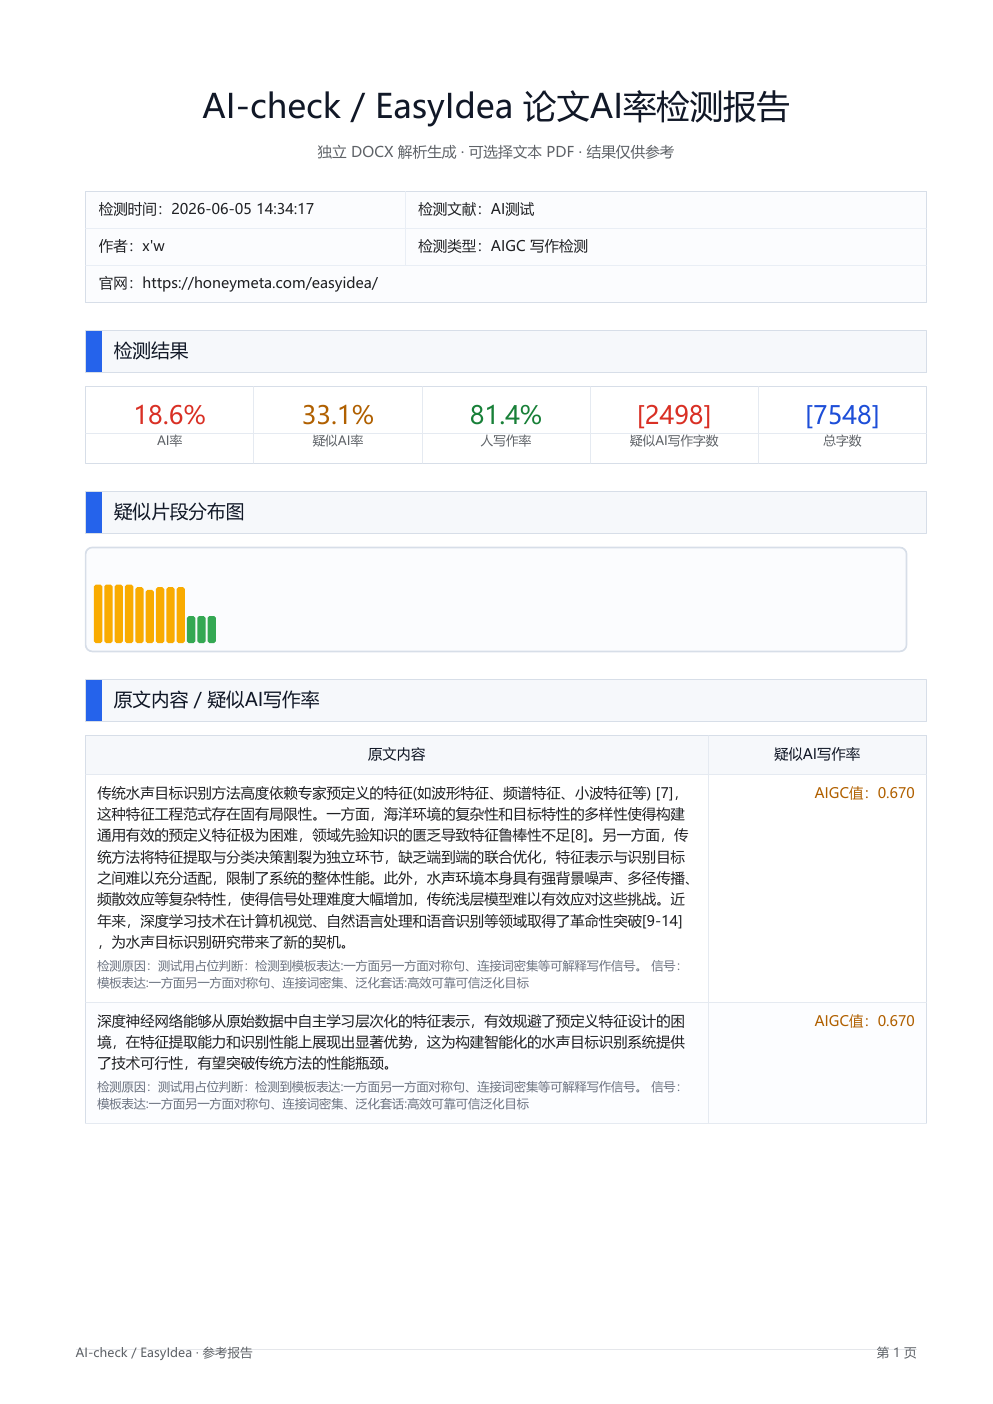
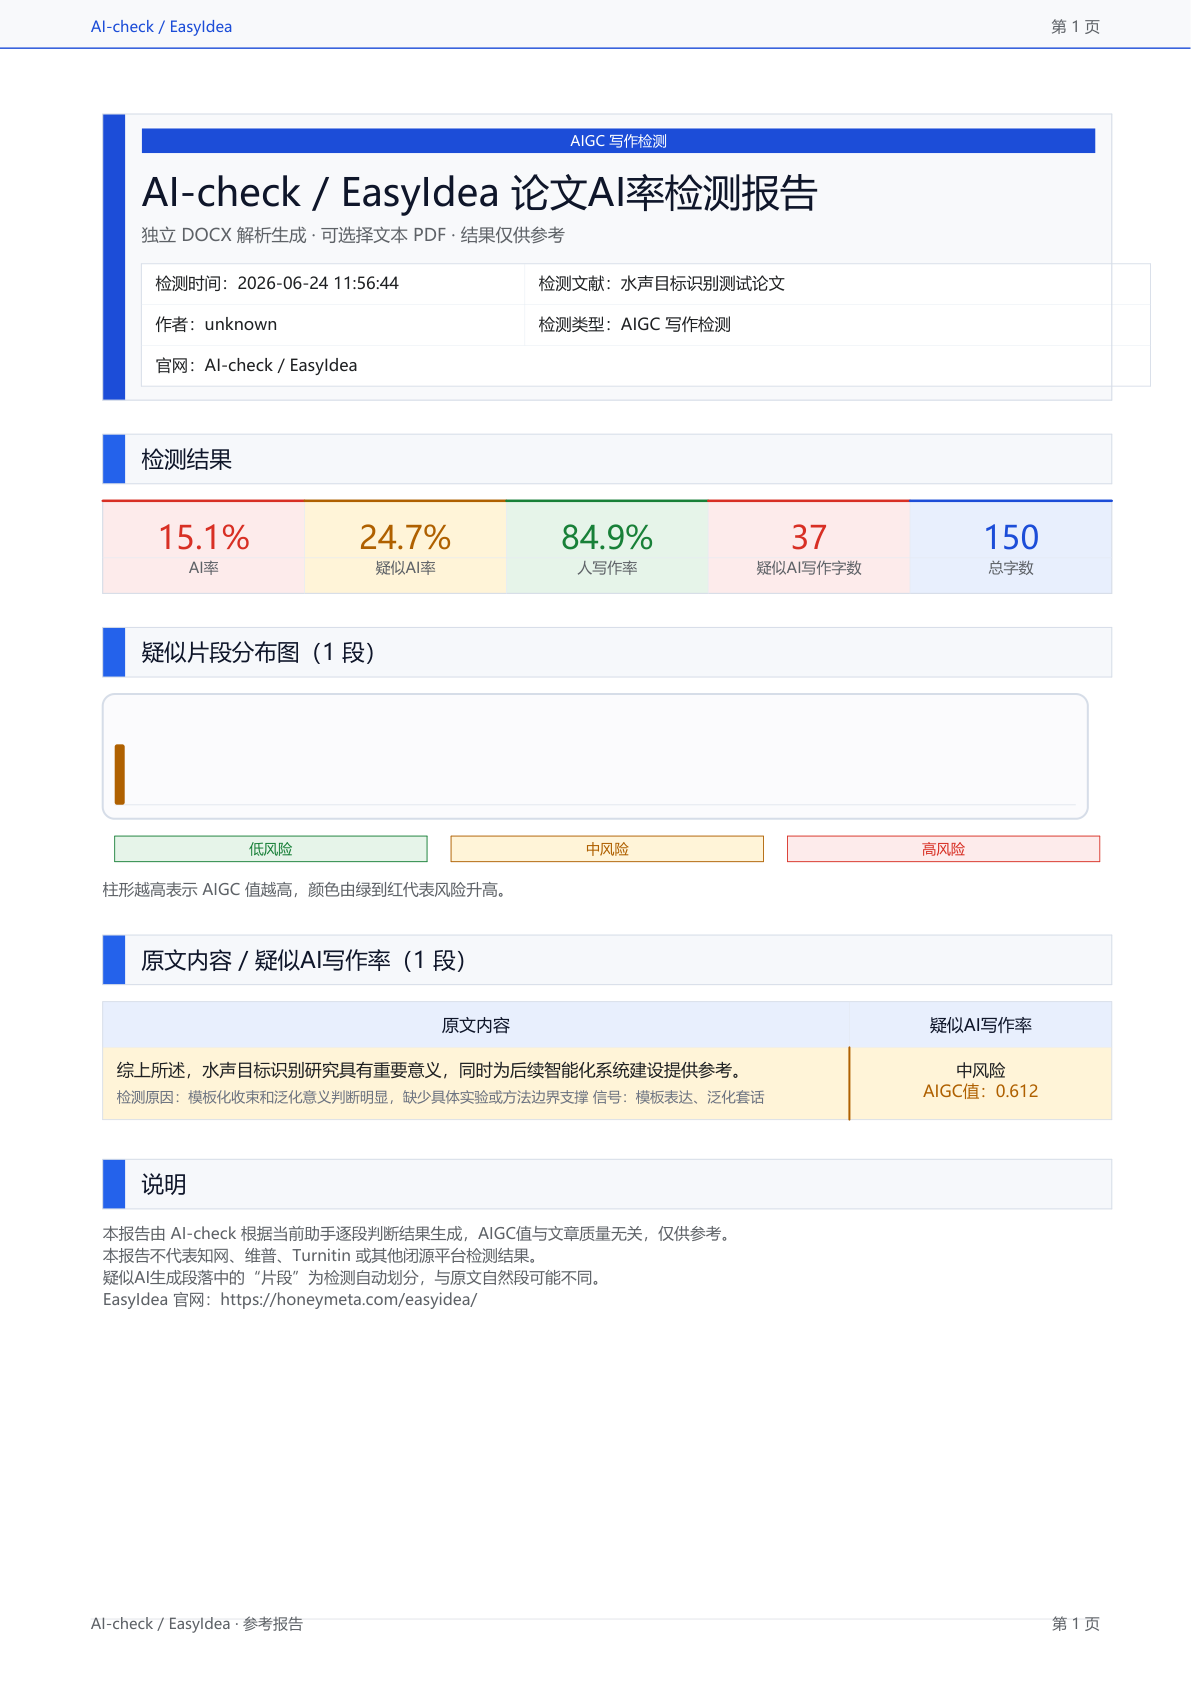
Polish AI-check PDF report styling

diff --git a/ai-check/scripts/ai_check.py b/ai-check/scripts/ai_check.py
@@ -869,6 +869,13 @@ def render_pdf(path: Path, scan: dict[str, Any], rows: list[dict[str, Any]], sum
         pdfmetrics.registerFont(UnicodeCIDFont(fallback))
         return fallback
 
+    def risk_palette(value: float) -> tuple[str, Any, Any]:
+        if value >= 0.75:
+            return "高风险", colors.HexColor("#D93025"), colors.HexColor("#FDECEC")
+        if value >= 0.45:
+            return "中风险", colors.HexColor("#B06000"), colors.HexColor("#FFF4D8")
+        return "低风险", colors.HexColor("#188038"), colors.HexColor("#E6F4EA")
+
     class DistributionBars(Flowable):
         def __init__(self, values: list[float], height: float = 22 * mm) -> None:
             super().__init__()
@@ -881,12 +888,15 @@ def render_pdf(path: Path, scan: dict[str, Any], rows: list[dict[str, Any]], sum
             return avail_width, self.height
 
         def draw(self) -> None:
-            pad = 5
-            base_y = pad
-            chart_h = self.height - pad * 2
-            self.canv.setFillColor(colors.HexColor("#FBFCFE"))
-            self.canv.setStrokeColor(colors.HexColor("#D7DEE8"))
-            self.canv.roundRect(0, 0, self.width, self.height, 4, stroke=1, fill=1)
+            pad = 6
+            base_y = pad + 1
+            chart_h = self.height - pad * 2 - 1
+            self.canv.setFillColor(softer)
+            self.canv.setStrokeColor(border)
+            self.canv.roundRect(0, 0, self.width, self.height, 6, stroke=1, fill=1)
+            self.canv.setStrokeColor(colors.HexColor("#E5EAF1"))
+            self.canv.setLineWidth(0.5)
+            self.canv.line(pad, base_y, self.width - pad, base_y)
             if not self.values:
                 return
             gap = 1.2
@@ -896,23 +906,23 @@ def render_pdf(path: Path, scan: dict[str, Any], rows: list[dict[str, Any]], sum
             bar_w = max(1.4, min(5.0, available / max(1, len(values))))
             x = pad
             for value in values:
-                color = "#D93025" if value >= 0.75 else "#F9AB00" if value >= 0.45 else "#34A853"
+                _, accent, _tint = risk_palette(value)
                 height = max(5, value * chart_h)
-                self.canv.setFillColor(colors.HexColor(color))
-                self.canv.roundRect(x, base_y, bar_w, height, 1.1, stroke=0, fill=1)
+                self.canv.setFillColor(accent)
+                self.canv.roundRect(x, base_y, bar_w, height, 1.2, stroke=0, fill=1)
                 x += bar_w + gap
 
     font_name = register_pdf_font()
     path.parent.mkdir(parents=True, exist_ok=True)
 
-    page_w, _page_h = A4
+    page_w, page_h = A4
     doc = SimpleDocTemplate(
         str(path),
         pagesize=A4,
         rightMargin=16 * mm,
         leftMargin=16 * mm,
-        topMargin=16 * mm,
-        bottomMargin=15 * mm,
+        topMargin=18 * mm,
+        bottomMargin=16 * mm,
         title="AI-check / EasyIdea 论文AI率检测报告",
         author="AI-check",
     )
@@ -927,25 +937,55 @@ def render_pdf(path: Path, scan: dict[str, Any], rows: list[dict[str, Any]], sum
     red = colors.HexColor("#D93025")
     green = colors.HexColor("#188038")
     amber = colors.HexColor("#B06000")
+    soft_red = colors.HexColor("#FDECEC")
+    soft_amber = colors.HexColor("#FFF4D8")
+    soft_green = colors.HexColor("#E6F4EA")
+    soft_blue = colors.HexColor("#E8F0FE")
+    soft_slate = colors.HexColor("#F8FAFC")
 
-    base = ParagraphStyle("AICheckBase", fontName=font_name, fontSize=9.2, leading=13.2, textColor=ink, alignment=TA_LEFT, wordWrap="CJK")
-    title_style = ParagraphStyle("AICheckTitle", parent=base, fontSize=20, leading=26, alignment=TA_CENTER, textColor=colors.HexColor("#111827"), spaceAfter=3 * mm)
-    subtitle_style = ParagraphStyle("AICheckSubtitle", parent=base, fontSize=8.8, leading=12, alignment=TA_CENTER, textColor=muted, spaceAfter=6 * mm)
-    meta_style = ParagraphStyle("AICheckMeta", parent=base, fontSize=8.7, leading=12.2)
-    section_style = ParagraphStyle("AICheckSection", parent=base, fontSize=11.2, leading=15, textColor=colors.HexColor("#111827"))
-    metric_value_style = ParagraphStyle("AICheckMetricValue", parent=base, fontSize=15, leading=18, alignment=TA_CENTER, textColor=red)
-    metric_label_style = ParagraphStyle("AICheckMetricLabel", parent=base, fontSize=7.6, leading=10, alignment=TA_CENTER, textColor=muted)
-    table_header_style = ParagraphStyle("AICheckTableHeader", parent=base, fontSize=8.6, leading=11, alignment=TA_CENTER, textColor=colors.HexColor("#111827"))
-    body_style = ParagraphStyle("AICheckBody", parent=base, fontSize=8.6, leading=12.8)
-    reason_style = ParagraphStyle("AICheckReason", parent=base, fontSize=7.3, leading=10.2, textColor=colors.HexColor("#6B7280"))
-    score_style = ParagraphStyle("AICheckScore", parent=base, fontSize=8.6, leading=12, alignment=TA_RIGHT)
-    note_style = ParagraphStyle("AICheckNote", parent=base, fontSize=8.0, leading=11.5, textColor=muted)
+    base = ParagraphStyle("AICheckBase", fontName=font_name, fontSize=9.1, leading=13.0, textColor=ink, alignment=TA_LEFT, wordWrap="CJK")
+    title_style = ParagraphStyle("AICheckTitle", parent=base, fontSize=19.2, leading=24, alignment=TA_LEFT, textColor=colors.HexColor("#0F172A"), spaceAfter=1.3 * mm)
+    subtitle_style = ParagraphStyle("AICheckSubtitle", parent=base, fontSize=8.7, leading=11.8, alignment=TA_LEFT, textColor=muted)
+    meta_style = ParagraphStyle("AICheckMeta", parent=base, fontSize=8.2, leading=11.4, textColor=ink)
+    section_style = ParagraphStyle("AICheckSection", parent=base, fontSize=11.3, leading=14.8, textColor=colors.HexColor("#0F172A"))
+    metric_value_style = ParagraphStyle("AICheckMetricValue", parent=base, fontSize=16, leading=18.5, alignment=TA_CENTER, textColor=red)
+    metric_label_style = ParagraphStyle("AICheckMetricLabel", parent=base, fontSize=7.5, leading=9.8, alignment=TA_CENTER, textColor=muted)
+    table_header_style = ParagraphStyle("AICheckTableHeader", parent=base, fontSize=8.5, leading=10.8, alignment=TA_CENTER, textColor=colors.HexColor("#0F172A"))
+    body_style = ParagraphStyle("AICheckBody", parent=base, fontSize=8.55, leading=12.4)
+    reason_style = ParagraphStyle("AICheckReason", parent=base, fontSize=7.15, leading=9.8, textColor=colors.HexColor("#6B7280"))
+    score_style = ParagraphStyle("AICheckScore", parent=base, fontSize=8.25, leading=10.8, alignment=TA_CENTER)
+    note_style = ParagraphStyle("AICheckNote", parent=base, fontSize=7.9, leading=11.0, textColor=muted)
 
     def safe(value: Any) -> str:
         return html.escape(str(value or "")).replace("\n", "<br/>")
 
     def paragraph(value: Any, style: ParagraphStyle = base) -> Paragraph:
         return Paragraph(safe(value), style)
+
+    def pill(text: str, bg: Any, fg: Any) -> Table:
+        pill_style = ParagraphStyle(
+            "AICheckPill",
+            parent=base,
+            fontSize=7.2,
+            leading=9.2,
+            alignment=TA_CENTER,
+            textColor=fg,
+        )
+        table = Table([[Paragraph(safe(text), pill_style)]], hAlign="LEFT")
+        table.setStyle(
+            TableStyle(
+                [
+                    ("BACKGROUND", (0, 0), (-1, -1), bg),
+                    ("BOX", (0, 0), (-1, -1), 0.45, fg),
+                    ("LEFTPADDING", (0, 0), (-1, -1), 5),
+                    ("RIGHTPADDING", (0, 0), (-1, -1), 5),
+                    ("TOPPADDING", (0, 0), (-1, -1), 1.8),
+                    ("BOTTOMPADDING", (0, 0), (-1, -1), 1.8),
+                    ("VALIGN", (0, 0), (-1, -1), "MIDDLE"),
+                ]
+            )
+        )
+        return table
 
     def color_for_value(value: float) -> Any:
         if value >= 0.75:
@@ -954,18 +994,83 @@ def render_pdf(path: Path, scan: dict[str, Any], rows: list[dict[str, Any]], sum
             return amber
         return green
 
+    def tint_for_value(value: float) -> Any:
+        if value >= 0.75:
+            return soft_red
+        if value >= 0.45:
+            return soft_amber
+        return soft_green
+
+    def label_for_value(value: float) -> str:
+        if value >= 0.75:
+            return "高风险"
+        if value >= 0.45:
+            return "中风险"
+        return "低风险"
+
+    def header_card() -> Table:
+        meta_data = [
+            [paragraph(f"检测时间：{detection_time}", meta_style), paragraph(f"检测文献：{title}", meta_style)],
+            [paragraph(f"作者：{author}", meta_style), paragraph("检测类型：AIGC 写作检测", meta_style)],
+            [paragraph("官网：AI-check / EasyIdea", meta_style), paragraph(f"检测范围：{scope}", meta_style)],
+        ]
+        meta_table = Table(meta_data, colWidths=[doc.width * 0.38, doc.width * 0.62], hAlign="LEFT")
+        meta_table.setStyle(
+            TableStyle(
+                [
+                    ("SPAN", (0, 2), (1, 2)),
+                    ("BACKGROUND", (0, 0), (-1, -1), colors.white),
+                    ("BOX", (0, 0), (-1, -1), 0.45, border),
+                    ("INNERGRID", (0, 0), (-1, -1), 0.25, colors.HexColor("#E7EDF5")),
+                    ("LEFTPADDING", (0, 0), (-1, -1), 7),
+                    ("RIGHTPADDING", (0, 0), (-1, -1), 7),
+                    ("TOPPADDING", (0, 0), (-1, -1), 4.5),
+                    ("BOTTOMPADDING", (0, 0), (-1, -1), 4.5),
+                    ("VALIGN", (0, 0), (-1, -1), "MIDDLE"),
+                ]
+            )
+        )
+        content = [
+            pill("AIGC 写作检测", blue_dark, colors.white),
+            Spacer(1, 2.5 * mm),
+            Paragraph("AI-check / EasyIdea 论文AI率检测报告", title_style),
+            Paragraph("独立 DOCX 解析生成 · 可选择文本 PDF · 结果仅供参考", subtitle_style),
+            Spacer(1, 3 * mm),
+            meta_table,
+        ]
+        table = Table([["", content]], colWidths=[4 * mm, doc.width - 4 * mm], hAlign="LEFT")
+        table.setStyle(
+            TableStyle(
+                [
+                    ("BACKGROUND", (0, 0), (0, 0), blue_dark),
+                    ("BACKGROUND", (1, 0), (1, 0), soft_slate),
+                    ("BOX", (0, 0), (-1, -1), 0.55, border),
+                    ("LEFTPADDING", (0, 0), (0, 0), 0),
+                    ("RIGHTPADDING", (0, 0), (0, 0), 0),
+                    ("LEFTPADDING", (1, 0), (1, 0), 8),
+                    ("RIGHTPADDING", (1, 0), (1, 0), 8),
+                    ("TOPPADDING", (0, 0), (-1, -1), 0),
+                    ("BOTTOMPADDING", (0, 0), (-1, -1), 0),
+                    ("TOPPADDING", (1, 0), (1, 0), 7),
+                    ("BOTTOMPADDING", (1, 0), (1, 0), 7),
+                    ("VALIGN", (0, 0), (-1, -1), "TOP"),
+                ]
+            )
+        )
+        return table
+
     def section_title(text: str) -> Table:
-        table = Table([["", paragraph(text, section_style)]], colWidths=[3.5 * mm, doc.width - 3.5 * mm], hAlign="LEFT")
+        table = Table([["", paragraph(text, section_style)]], colWidths=[4 * mm, doc.width - 4 * mm], hAlign="LEFT")
         table.setStyle(
             TableStyle(
                 [
                     ("BACKGROUND", (0, 0), (0, 0), blue),
                     ("BACKGROUND", (1, 0), (1, 0), soft),
-                    ("BOX", (0, 0), (-1, -1), 0.45, border),
+                    ("BOX", (0, 0), (-1, -1), 0.5, border),
                     ("LEFTPADDING", (0, 0), (0, 0), 0),
                     ("RIGHTPADDING", (0, 0), (0, 0), 0),
-                    ("LEFTPADDING", (1, 0), (1, 0), 7),
-                    ("RIGHTPADDING", (1, 0), (1, 0), 7),
+                    ("LEFTPADDING", (1, 0), (1, 0), 8),
+                    ("RIGHTPADDING", (1, 0), (1, 0), 8),
                     ("TOPPADDING", (0, 0), (-1, -1), 5),
                     ("BOTTOMPADDING", (0, 0), (-1, -1), 5),
                     ("VALIGN", (0, 0), (-1, -1), "MIDDLE"),
@@ -976,34 +1081,39 @@ def render_pdf(path: Path, scan: dict[str, Any], rows: list[dict[str, Any]], sum
 
     def metric_table() -> Table:
         values = [
-            (percent(summary["aiRate"]), "AI率", red),
-            (percent(summary["suspiciousAiRate"]), "疑似AI率", amber),
-            (percent(summary["humanRate"]), "人写作率", green),
-            (f"[{summary['suspiciousChars']}]", "疑似AI写作字数", red),
-            (f"[{summary['totalChars']}]", "总字数", blue_dark),
+            (percent(summary["aiRate"]), "AI率", red, soft_red),
+            (percent(summary["suspiciousAiRate"]), "疑似AI率", amber, soft_amber),
+            (percent(summary["humanRate"]), "人写作率", green, soft_green),
+            (str(summary["suspiciousChars"]), "疑似AI写作字数", red, soft_red),
+            (str(summary["totalChars"]), "总字数", blue_dark, soft_blue),
         ]
         value_cells = []
         label_cells = []
-        for value, label, color in values:
+        for value, label, color, tint in values:
             value_style = ParagraphStyle(f"AICheckMetricValue{label}", parent=metric_value_style, textColor=color)
             value_cells.append(Paragraph(safe(value), value_style))
             label_cells.append(Paragraph(safe(label), metric_label_style))
         table = Table([value_cells, label_cells], colWidths=[doc.width / 5] * 5, hAlign="LEFT")
-        table.setStyle(
-            TableStyle(
+        table_style_commands: list[tuple[Any, ...]] = [
+            ("BOX", (0, 0), (-1, -1), 0.55, border),
+            ("INNERGRID", (0, 0), (-1, -1), 0.35, colors.HexColor("#E6ECF4")),
+            ("TOPPADDING", (0, 0), (-1, 0), 8),
+            ("BOTTOMPADDING", (0, 0), (-1, 0), 2),
+            ("TOPPADDING", (0, 1), (-1, 1), 0),
+            ("BOTTOMPADDING", (0, 1), (-1, 1), 8),
+            ("LEFTPADDING", (0, 0), (-1, -1), 4),
+            ("RIGHTPADDING", (0, 0), (-1, -1), 4),
+            ("VALIGN", (0, 0), (-1, -1), "MIDDLE"),
+        ]
+        for index, (_, _, color, tint) in enumerate(values):
+            table_style_commands.extend(
                 [
-                    ("BACKGROUND", (0, 0), (-1, -1), colors.white),
-                    ("BOX", (0, 0), (-1, -1), 0.45, border),
-                    ("INNERGRID", (0, 0), (-1, -1), 0.35, colors.HexColor("#E5EAF1")),
-                    ("TOPPADDING", (0, 0), (-1, 0), 8),
-                    ("BOTTOMPADDING", (0, 0), (-1, 0), 2),
-                    ("TOPPADDING", (0, 1), (-1, 1), 0),
-                    ("BOTTOMPADDING", (0, 1), (-1, 1), 8),
-                    ("LEFTPADDING", (0, 0), (-1, -1), 3),
-                    ("RIGHTPADDING", (0, 0), (-1, -1), 3),
-                    ("VALIGN", (0, 0), (-1, -1), "MIDDLE"),
+                    ("BACKGROUND", (index, 0), (index, 1), tint),
+                    ("LINEABOVE", (index, 0), (index, 0), 1.25, color),
                 ]
             )
+        table.setStyle(
+            TableStyle(table_style_commands)
         )
         return table
 
@@ -1011,42 +1121,27 @@ def render_pdf(path: Path, scan: dict[str, Any], rows: list[dict[str, Any]], sum
     title = str(scan.get("documentTitle") or "untitled")
     author = str(scan.get("author") or "unknown")
     scope = "ChatGPT 讯飞星火 Gemini Kimi Claude 文心一言 通义千问 智谱AI 百川智能 360智脑 豆包 DeepSeek（包括但不限于）"
-    meta_data = [
-        [paragraph(f"检测时间：{detection_time}", meta_style), paragraph(f"检测文献：{title}", meta_style)],
-        [paragraph(f"作者：{author}", meta_style), paragraph("检测类型：AIGC 写作检测", meta_style)],
-        [paragraph(f"官网：{OFFICIAL_SITE}", meta_style), paragraph(f"检测范围：{scope}", meta_style)],
-    ]
-    meta_table = Table(meta_data, colWidths=[doc.width * 0.38, doc.width * 0.62], hAlign="LEFT")
-    meta_table.setStyle(
-        TableStyle(
-            [
-                ("SPAN", (0, 2), (1, 2)),
-                ("BACKGROUND", (0, 0), (-1, -1), softer),
-                ("BOX", (0, 0), (-1, -1), 0.45, border),
-                ("INNERGRID", (0, 0), (-1, -1), 0.25, colors.HexColor("#E9EEF5")),
-                ("LEFTPADDING", (0, 0), (-1, -1), 8),
-                ("RIGHTPADDING", (0, 0), (-1, -1), 8),
-                ("TOPPADDING", (0, 0), (-1, -1), 5),
-                ("BOTTOMPADDING", (0, 0), (-1, -1), 5),
-                ("VALIGN", (0, 0), (-1, -1), "MIDDLE"),
-            ]
-        )
-    )
 
     story: list[Any] = [
-        Paragraph("AI-check / EasyIdea 论文AI率检测报告", title_style),
-        Paragraph("独立 DOCX 解析生成 · 可选择文本 PDF · 结果仅供参考", subtitle_style),
-        meta_table,
+        header_card(),
         Spacer(1, 6 * mm),
         section_title("检测结果"),
         Spacer(1, 3 * mm),
         metric_table(),
         Spacer(1, 6 * mm),
-        section_title("疑似片段分布图"),
+        section_title(f"疑似片段分布图（{summary['fragmentCount']} 段）"),
         Spacer(1, 3 * mm),
         DistributionBars([row["result"].aigcValue for row in rows]),
+        Spacer(1, 2 * mm),
+        Table(
+            [[pill("低风险", soft_green, green), pill("中风险", soft_amber, amber), pill("高风险", soft_red, red)]],
+            colWidths=[doc.width / 3] * 3,
+            hAlign="LEFT",
+        ),
+        Spacer(1, 2 * mm),
+        paragraph("柱形越高表示 AIGC 值越高，颜色由绿到红代表风险升高。", note_style),
         Spacer(1, 6 * mm),
-        section_title("原文内容 / 疑似AI写作率"),
+        section_title(f"原文内容 / 疑似AI写作率（{summary['fragmentCount']} 段）"),
         Spacer(1, 3 * mm),
     ]
 
@@ -1055,16 +1150,19 @@ def render_pdf(path: Path, scan: dict[str, Any], rows: list[dict[str, Any]], sum
         result: Result = row["result"]
         reason = report_reason(result)
         value = max(0.0, min(1.0, result.aigcValue))
+        label, accent, tint = risk_palette(value)
         original_cell: list[Any] = [paragraph(row["text"], body_style)]
         if reason:
             original_cell.extend([Spacer(1, 2), paragraph(f"检测原因：{reason}", reason_style)])
-        score_color = color_for_value(value)
-        score = Paragraph(f'<font color="{score_color.hexval()}">AIGC值：{value:.3f}</font>', score_style)
+        score = Paragraph(
+            f'<b>{label}</b><br/><font color="{accent.hexval()}">AIGC值：{value:.3f}</font>',
+            score_style,
+        )
         table_data.append([original_cell, score])
 
     report_table = LongTable(table_data, colWidths=[doc.width * 0.74, doc.width * 0.26], repeatRows=1, hAlign="LEFT", splitByRow=1)
     table_style_commands: list[tuple[Any, ...]] = [
-        ("BACKGROUND", (0, 0), (-1, 0), soft),
+        ("BACKGROUND", (0, 0), (-1, 0), soft_blue),
         ("BOX", (0, 0), (-1, -1), 0.45, border),
         ("INNERGRID", (0, 0), (-1, -1), 0.25, colors.HexColor("#E5EAF1")),
         ("LEFTPADDING", (0, 0), (-1, -1), 7),
@@ -1074,8 +1172,15 @@ def render_pdf(path: Path, scan: dict[str, Any], rows: list[dict[str, Any]], sum
         ("VALIGN", (0, 0), (-1, -1), "TOP"),
     ]
     for row_index in range(1, len(table_data)):
-        if row_index % 2 == 0:
-            table_style_commands.append(("BACKGROUND", (0, row_index), (-1, row_index), colors.HexColor("#FCFDFF")))
+        result = rows[row_index - 1]["result"]
+        value = max(0.0, min(1.0, result.aigcValue))
+        _, accent, tint = risk_palette(value)
+        table_style_commands.extend(
+            [
+                ("BACKGROUND", (0, row_index), (-1, row_index), tint),
+                ("LINEBEFORE", (1, row_index), (1, row_index), 1.0, accent),
+            ]
+        )
     report_table.setStyle(TableStyle(table_style_commands))
     story.append(report_table)
     story.extend(
@@ -1092,6 +1197,17 @@ def render_pdf(path: Path, scan: dict[str, Any], rows: list[dict[str, Any]], sum
 
     def draw_page(canvas_obj: Any, doc_obj: Any) -> None:
         canvas_obj.saveState()
+        header_h = 8.5 * mm
+        canvas_obj.setFillColor(soft_slate)
+        canvas_obj.rect(0, page_h - header_h, page_w, header_h, stroke=0, fill=1)
+        canvas_obj.setStrokeColor(blue_dark)
+        canvas_obj.setLineWidth(0.7)
+        canvas_obj.line(0, page_h - header_h, page_w, page_h - header_h)
+        canvas_obj.setFont(font_name, 7.6)
+        canvas_obj.setFillColor(blue_dark)
+        canvas_obj.drawString(doc_obj.leftMargin, page_h - 5.6 * mm, "AI-check / EasyIdea")
+        canvas_obj.setFillColor(muted)
+        canvas_obj.drawRightString(page_w - doc_obj.rightMargin, page_h - 5.6 * mm, f"第 {doc_obj.page} 页")
         footer_y = 10 * mm
         canvas_obj.setStrokeColor(colors.HexColor("#E5E7EB"))
         canvas_obj.setLineWidth(0.5)
